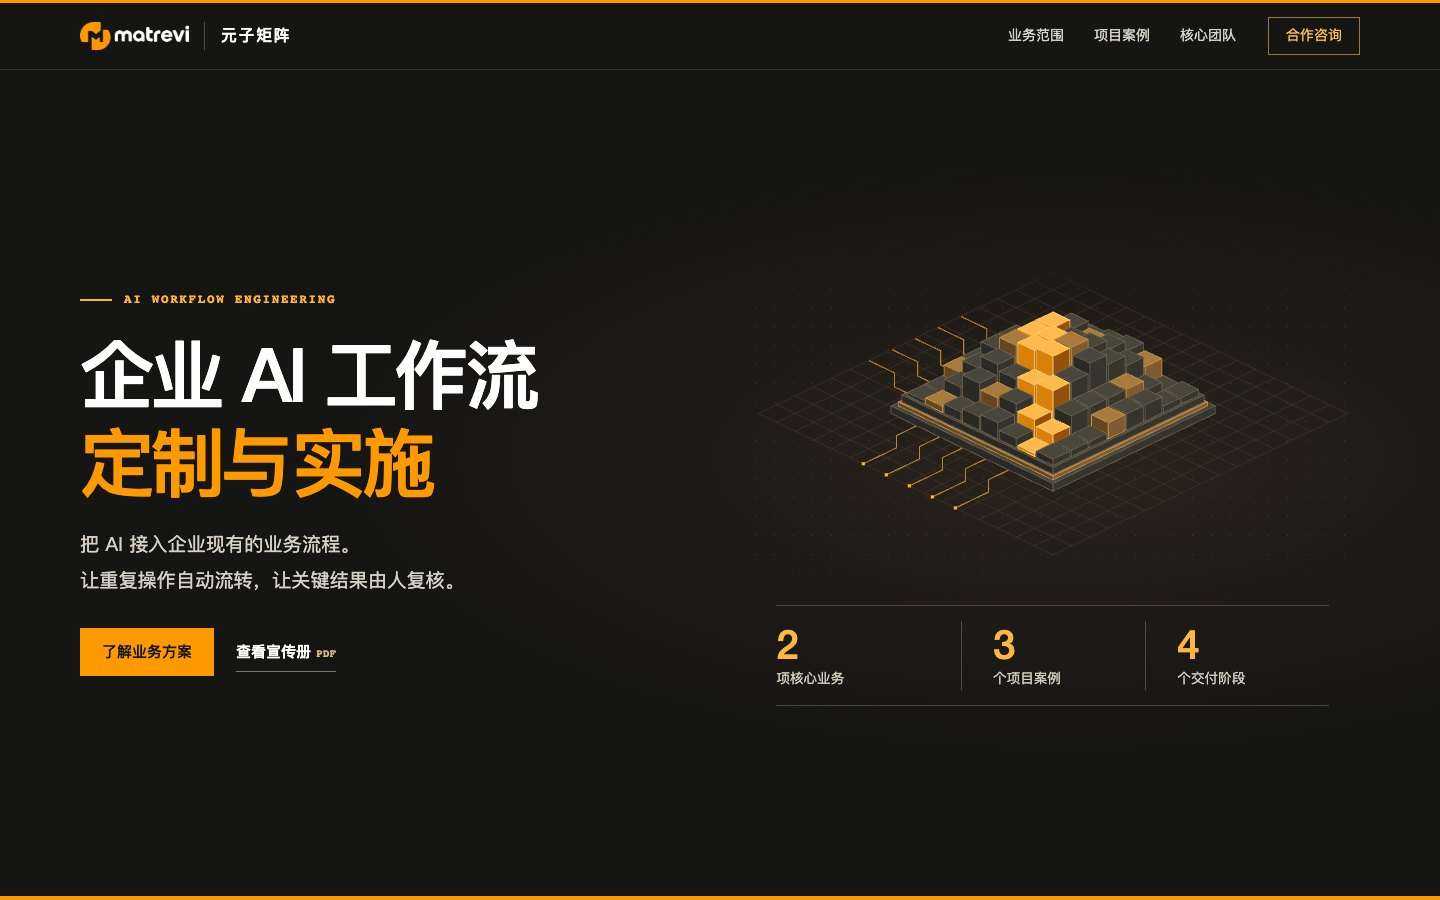
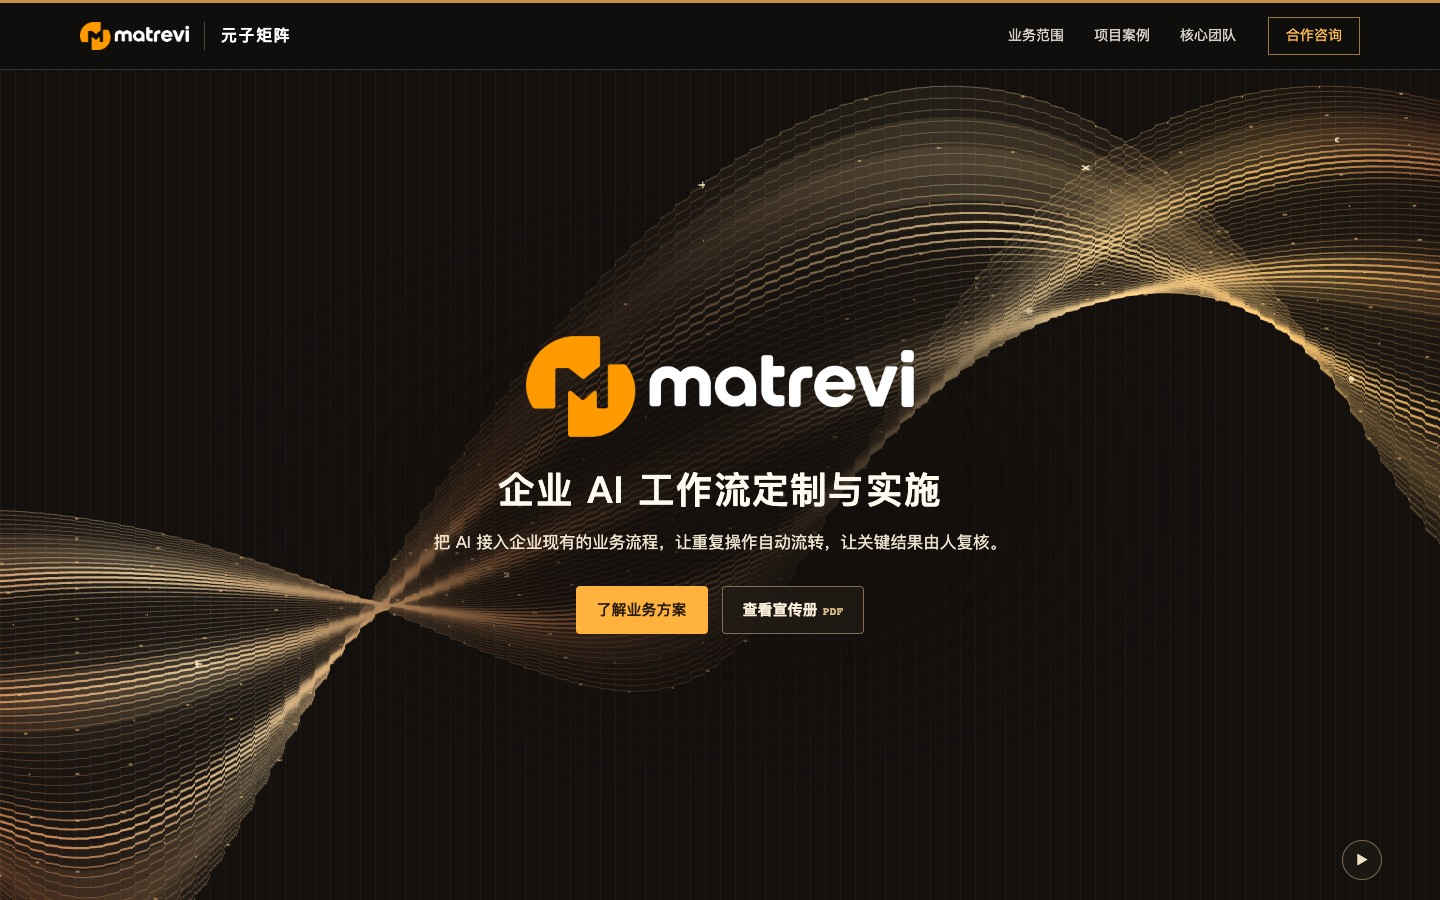
用琥珀色折射矩阵流重绘官网独立首页

diff --git a/site.css b/site.css
@@ -10,15 +10,7 @@ header{height:var(--head);position:sticky;top:0;background:#151514;color:#fff;bo
 .navlinks{gap:30px;font-size:14px;color:#d8d3ca}.navlinks a:hover,.secondary:hover{color:var(--amber)}
 .contact-link{border:1px solid #9c773a;padding:6px 17px;color:#ffbc53;font-size:14px}.contact-link:hover{background:#302719}
 .skip{position:fixed;top:-80px;left:10px;background:white;padding:10px;z-index:10}.skip:focus{top:10px}
-.cover{color:white;background:radial-gradient(ellipse at 74% 47%,#29231a 0,transparent 48%),#151514;overflow:hidden;border-bottom:4px solid var(--amber)}
-.cover-in{display:grid;grid-template-columns:1fr 1fr;align-items:center;gap:4%;min-height:clamp(515px,72vh,760px);padding-block:50px}
-.eyebrow,.kicker,.category{font:650 .79rem/1.5 "SFMono-Regular",Consolas,monospace;letter-spacing:.13em}.eyebrow{display:flex;gap:12px;align-items:center;color:#ffb33b}.eyebrow i{width:32px;height:2px;background:currentColor}
-h1{font-size:clamp(46px,5.18vw,83px);line-height:1.18;letter-spacing:-.055em;margin:22px 0 20px;font-weight:800}h1 em{color:var(--amber);font-style:normal}
-.lead{font-size:clamp(1rem,1.35vw,1.2rem);line-height:1.85;color:#d6d0c6}
-.actions{gap:22px;flex-wrap:wrap;margin-top:30px;font-size:15px;font-weight:650}.primary{background:var(--amber);color:#161513;padding:11px 22px}.primary:hover{background:#ffb536}.secondary{color:white;border-bottom:1px solid #7c7566;padding:7px 0}.secondary small{font:600 .7rem monospace;color:#d4b786}
-.visual{min-width:0}.art{position:relative;background-image:radial-gradient(#72644865 .8px,transparent 1px);background-size:19px 19px;mask-image:linear-gradient(to bottom,transparent,black 12%,black 89%,transparent)}
-canvas{display:block;width:100%;height:auto}.stats{display:grid;grid-template-columns:repeat(3,1fr);border-block:1px solid #4d4537;padding:15px 0;margin:0 5%}
-.stats div{display:flex;flex-direction:column-reverse;padding-left:17%;border-left:1px solid #524a3c}.stats div:first-child{border:0;padding-left:0}.stats dt{color:#d3cbbd;font-size:.85rem}.stats dd{font:500 clamp(1.7rem,2.8vw,2.7rem)/1.15 "Helvetica Neue",Arial,sans-serif;color:#ffb641;letter-spacing:-.06em}
+.kicker,.category{font:650 .79rem/1.5 "SFMono-Regular",Consolas,monospace;letter-spacing:.13em}
 .reading{display:grid;grid-template-columns:190px minmax(0,1fr);gap:clamp(30px,5vw,86px);padding-block:56px 78px}
 .toc{position:sticky;top:calc(var(--head) + 22px);border-top:3px solid var(--ink);padding-top:16px}.toc h2{font-size:16px;margin-bottom:14px}.toc a{display:block;padding:8px 12px;color:#625e56;border-left:2px solid transparent;font-size:15px}.toc a:hover,.toc a[aria-current]{background:#eee8dc;color:var(--ink);border-color:#bd6900}
 article{background:#fff;border:1px solid var(--line);min-width:0}article section{padding:clamp(26px,4vw,62px);border-bottom:1px solid var(--line)}article section:last-child{border:0}
@@ -33,14 +25,51 @@ article h2{font-size:1.18rem;line-height:1.45}article p,article dd{color:#514d47
 #contact{background:#1b1a17;color:white}#contact .kicker{color:#ffb33b}#contact p{color:#d3cdbf}.contact-body{display:flex;justify-content:space-between;align-items:center;gap:15px;margin-top:22px;border-top:1px solid #4f4738;padding-top:20px}.contact-body a{display:block;color:white;text-underline-offset:4px}.contact-body h2{margin-bottom:10px}.contact-body small{font-size:.8rem;color:#e4c99e}.contact-body img{display:block;width:100px}.contact-body figcaption{text-align:center;font-size:13px;color:#dfd7cb}
 footer{background:#151514;color:#d7d3ca;font-size:14px}footer .wrap{display:flex;justify-content:space-between;padding-block:18px}
 @media(max-width:920px){.reading{grid-template-columns:142px minmax(0,1fr);gap:24px}.people,.case{grid-template-columns:1fr}.person{padding-block:10px}.people{gap:4px}.case{gap:14px}}
-@media(max-width:700px){:root{--head:58px}.wrap{width:90%}.bar{gap:12px}.brand{gap:10px}.brand img{width:84px}.brand span{font-size:13px;padding-left:10px}.navlinks{display:none}.contact-link{padding:4px 10px}.cover-in{grid-template-columns:1fr;gap:15px;padding-block:42px 27px;min-height:0}h1{font-size:clamp(43px,9vw,64px);margin:16px 0 12px}.lead{line-height:1.65}.actions{margin-top:18px}.visual{display:grid;grid-template-columns:1.35fr 1fr;align-items:center;gap:8px}.art{margin-left:-5%}.stats{grid-template-columns:1fr;border:0;margin:0;padding:0}.stats div,.stats div:first-child{flex-direction:row-reverse;align-items:baseline;justify-content:flex-end;gap:9px;border:0;border-bottom:1px solid #524a3c;padding:3px 0}.stats dt{font-size:.75rem}.stats dd{font-size:1.45rem;min-width:18px}.reading{display:block;padding-block:24px 30px}.toc{position:static;display:flex;gap:4px;flex-wrap:wrap;border-top:0;padding:0 0 16px}.toc h2{flex-basis:100%;margin:0}.toc a{padding:4px 8px;font-size:14px}.pair,.stages{grid-template-columns:1fr;gap:15px}.terms div{display:block}.terms dt{margin-bottom:4px}article section{padding:24px 18px}.case img{max-height:none}.contact-body{flex-wrap:wrap}.contact-body img{width:85px}}
+@media(max-width:700px){:root{--head:58px}.wrap{width:90%}.bar{gap:12px}.brand{gap:10px}.brand img{width:84px}.brand span{font-size:13px;padding-left:10px}.navlinks{display:none}.contact-link{padding:4px 10px}.reading{display:block;padding-block:24px 30px}.toc{position:static;display:flex;gap:4px;flex-wrap:wrap;border-top:0;padding:0 0 16px}.toc h2{flex-basis:100%;margin:0}.toc a{padding:4px 8px;font-size:14px}.pair,.stages{grid-template-columns:1fr;gap:15px}.terms div{display:block}.terms dt{margin-bottom:4px}article section{padding:24px 18px}.case img{max-height:none}.contact-body{flex-wrap:wrap}.contact-body img{width:85px}}
 @media(prefers-reduced-motion:no-preference){html{scroll-behavior:smooth}}@media print{header,aside,footer,.actions,.skip{display:none}.reading{display:block}.wrap{width:100%}.cover-in{min-height:0}.cover{background:white;color:#161513}.lead,.eyebrow{color:#514d47}article{border:0}article section{break-inside:auto}.case,.person{break-inside:avoid}}
 
-.home { background: #151514; }
-.home .cover-in {
-  min-height: calc(100svh - var(--head) - 4px);
-  align-content: center;
+.home { background: #100e0c; }
+.home header { border-top-color: #cc9148; background: #100e0c; }
+.cover {
+  position: relative;
+  isolation: isolate;
+  overflow: hidden;
+  display: grid;
+  place-items: center;
+  min-height: calc(100svh - var(--head));
+  padding: 66px 5%;
+  color: #fffaf0;
+  background: radial-gradient(ellipse at 85% 22%, #503120, transparent 48%),
+              radial-gradient(ellipse at 12% 86%, #614022, transparent 47%), #120f0e;
 }
+.cover canvas { position: absolute; inset: 0; width: 100%; height: 100%; z-index: -2; }
+.cover::before {
+  content: ""; position: absolute; inset: 0; z-index: -1; pointer-events: none;
+  background: radial-gradient(ellipse at 50% 51%, #120e0bd9 0%, #120e0ba6 19%, transparent 52%);
+}
+.hero-copy { text-align: center; }
+.cover-logo { display: block; width: clamp(200px, 27vw, 420px); height: auto; margin: 0 auto 28px; }
+.cover h1 { margin: 0; font-size: clamp(22px, 2.55vw, 40px); line-height: 1.35; letter-spacing: .035em; font-weight: 650; }
+.lead { margin: 14px 0 0; color: #eee2cf; font-size: clamp(15px, 1.15vw, 18px); line-height: 1.8; }
+.mobile-break { display: none; }
+.actions { justify-content: center; flex-wrap: wrap; gap: 14px; margin-top: 28px; font-size: 15px; font-weight: 600; }
+.actions a { padding: 10px 20px; border: 1px solid transparent; border-radius: 4px; }
+.primary { color: #241807; background: #ffb23e; }
+.primary:hover { background: #ffc469; }
+.actions .secondary { border-color: #806d53; color: #fff2df; background: #211b15d9; }
+.secondary small { font: 600 .72rem monospace; color: #dbbc86; }
+.motion {
+  position: absolute; right: 4%; bottom: 20px; width: 40px; height: 40px; border-radius: 50%;
+  background: #1c1814e6; color: #f0dfc6; border: 1px solid #7f6950; cursor: pointer;
+}
+.motion:focus-visible { outline: 3px solid var(--amber); outline-offset: 3px; }
+@media(max-width:700px) {
+  .cover-logo { margin-bottom: 24px; }
+  .mobile-break { display: inline; }
+  .actions { gap: 10px; }
+  .actions a { padding: 9px 14px; }
+}
+@media print { .motion, .cover canvas { display: none; } }
 .chapter { min-width: 0; }
 .pager {
   display: flex;

diff --git a/matrix.js b/matrix.js
@@ -1,59 +1,140 @@
-// Isometric drawing for the cover. Coordinates are expressed in grid cells.
+// Light threads are rendered into one surface and sampled through vertical glass ribs.
 const canvas = document.getElementById('matrix');
-const ctx = canvas.getContext('2d');
-function project(x, y, h = 0) {
-  return [400 + (x - y) * 24, 200 + (x + y) * 11.5 - h];
-}
-function shape(points, fill, outline, width = 1) {
-  ctx.beginPath();
-  points.forEach(([x, y], index) => index ? ctx.lineTo(x, y) : ctx.moveTo(x, y));
-  if (fill) { ctx.closePath(); ctx.fillStyle = fill; ctx.fill(); }
-  if (outline) { ctx.strokeStyle = outline; ctx.lineWidth = width; ctx.stroke(); }
-}
-function trace(points, color, width) {
-  shape(points.map(point => project(...point)), null, color, width);
-}
-function block(x,y,size,bottom,height,colors) {
-  const corners = [[x,y],[x+size,y],[x+size,y+size],[x,y+size]];
-  const top = corners.map(([a,b]) => project(a,b,height));
-  const base = corners.map(([a,b]) => project(a,b,bottom));
-  shape([top[3],top[2],base[2],base[3]],colors[1],colors[3]);
-  shape([top[2],top[1],base[1],base[2]],colors[2],colors[3]);
-  shape(top,colors[0],colors[3]);
-}
-function drawMatrix() {
-  const scale = Math.min(devicePixelRatio || 1, 3) * canvas.clientWidth / 800;
-  canvas.width = Math.max(1, Math.round(800*scale));
-  canvas.height = Math.max(1, Math.round(450*scale));
-  ctx.setTransform(scale,0,0,scale,0,0);
-  for (let n=-8;n<=8;n++) {
-    trace([[-8,n],[8,n]],'#54463572',1);
-    trace([[n,-8],[n,8]],'#54463572',1);
+const surface = document.createElement('canvas');
+const ink = surface.getContext('2d');
+const glass = canvas.getContext('2d');
+const motion = document.querySelector('.motion');
+const preference = matchMedia('(prefers-reduced-motion: reduce)');
+const lanes = 64;
+const samples = 126;
+let width, height, frame, previous = 0, phase = 0;
+let paused = preference.matches;
+
+function drawField() {
+  const tall = height > width;
+  const extent = Math.min(height, width * .96);
+  ink.fillStyle = '#14100e';
+  ink.fillRect(0, 0, width, height);
+
+  // Each sampled column forms a rotated cross-section of the same folded sheet.
+  const columns = Array.from({length: samples + 1}, (_, i) => {
+    const t = i / samples;
+    const angle = t * 9.5 + .65 * Math.sin(phase * .36) - .28;
+    const x = (t * 1.46 - .23) * width;
+    const y = height * (.76 - .55 * t) + extent * .21 * Math.sin(t * 8.4 - .72 + .26 * Math.sin(phase * .54));
+    return {
+      x, y,
+      dx: extent * .115 * Math.cos(angle),
+      dy: extent * .28 * Math.sin(angle),
+      bend: extent * .115 * Math.cos(angle + .7)
+    };
+  });
+  function point(i, lane) {
+    const c = columns[i];
+    return [c.x + c.dx * lane, c.y + c.dy * lane + c.bend * (1 - lane * lane)];
   }
-  const amber = ['#ffba4d','#d88009','#95500b','#ffc96c'];
-  const slate = ['#49463b','#292a25','#35352d','#6d624d'];
-  const bronze = ['#a77b3e','#624721','#805b31','#c5914b'];
-  for (let lane=0;lane<5;lane++) {
-    const start = -3+lane*1.25;
-    trace([[-8,start],[-6.6,start],[-5.8,start+.8],[-3.6,start+.8]],'#c07d32',1.4);
-    trace([[start,4],[start,5.5],[start+.7,6.2],[start+.7,8]],'#b9863d',1.4);
-    const [x,y] = project(start+.7,8);
-    ctx.fillStyle='#ffb744';ctx.fillRect(x-2,y-2,4,4);
+
+  const light = ink.createLinearGradient(0, height, width, 0);
+  light.addColorStop(0, '#dc824a');
+  light.addColorStop(.17, '#ffe1aa');
+  light.addColorStop(.38, '#d4844c');
+  light.addColorStop(.52, '#967050');
+  light.addColorStop(.72, '#ffdda0');
+  light.addColorStop(.88, '#ffc56b');
+  light.addColorStop(1, '#ad613c');
+  // Lay a continuous amber film beneath the finer matrix lines.
+  // Sampling both edges of each band keeps the highlights attached to the fold.
+  const bands = 24;
+  for (let band = 0; band < bands; band++) {
+    const edge = band / bands * 2 - 1;
+    const highlight = (.5 + .5 * Math.cos(edge * 8.5 + phase * .18)) ** 3;
+    ink.fillStyle = light;
+    ink.globalAlpha = .035 + .21 * highlight;
+    ink.beginPath();
+    ink.moveTo(...point(0, edge));
+    for (let i = 1; i <= samples; i++) ink.lineTo(...point(i, edge));
+    for (let i = samples; i >= 0; i--) ink.lineTo(...point(i, edge + 2 / bands));
+    ink.closePath();
+    ink.fill();
   }
-  block(-4.4,-4.4,8.8,0,10,slate);
-  block(-4.2,-4.2,8.4,10,15,bronze);
-  block(-4.1,-4.1,8.2,15,24,slate);
-  // The central array rises in terraces, with illuminated cells following the diagonal.
-  for(let sum=0;sum<=14;sum++){
-    for(let i=0;i<8;i++){
-      const j=sum-i;
-      if(j<0 || j>7) continue;
-      const ridge=Math.max(0,1-Math.hypot(i-3.4,j-3.1)/4.4);
-      const height=28+Math.round(ridge*6)*13+((i*7+j*3)%3)*4;
-      const hot=(i===j || i===j-1) && i>0 && i<7;
-      const colors=hot ? amber : ((i+2*j)%5===0?bronze:slate);
-      block(i-3.93,j-3.93,.91,24,height,colors);
+  ink.strokeStyle = light;
+  for (let j = 0; j <= lanes; j++) {
+    const lane = j / lanes * 2 - 1;
+    const sheen = (.5 + .5 * Math.cos(lane * 11 - phase * .35)) ** 3;
+    ink.globalAlpha = .27 + .55 * sheen;
+    ink.lineWidth = (.9 + 1.4 * sheen) * Math.max(.7, width / 1450);
+    ink.beginPath();
+    for (let i = 0; i <= samples; i++) {
+      const [x, y] = point(i, lane);
+      if (i === 0) ink.moveTo(x,y);
+      else ink.lineTo(x,y);
+    }
+    ink.stroke();
+  }
+
+  // Rows of travelling samples tighten where the sheet turns edge-on.
+  ink.globalAlpha = 1;
+  const symbols = ['+', '×', '⊕'];
+  ink.font = (tall ? 10 : 13) + 'px monospace';
+  for (let row = 0; row < 36; row++) {
+    const pos = ((row / 36 + phase * .019) % 1) * samples;
+    const left = Math.floor(pos);
+    const mix = pos - left;
+    for (let j = 0; j <= 12; j++) {
+      const lane = j / 6 - 1;
+      const a = point(left, lane), b = point(left + 1, lane);
+      const x = a[0] + (b[0] - a[0]) * mix, y = a[1] + (b[1] - a[1]) * mix;
+      const operator = (row + j * 5) % 39 === 0;
+      ink.fillStyle = operator ? '#fff0c6' : '#ffc57eb3';
+      if (operator) ink.fillText(symbols[(row + j) % symbols.length], x, y);
+      else ink.fillRect(x,y,tall ? 1.2 : 1.8,tall ? 1.2 : 1.8);
     }
   }
+
+  const pitch = tall ? 9 : 15;
+  const scale = surface.width / width;
+  for (let x = 0; x < width; x += pitch) {
+    // Different magnification on the two faces produces a refracted seam.
+    const sample = Math.min(x + 2, width - 1);
+    glass.drawImage(surface, sample * scale, 0, pitch * .48 * scale, surface.height, x, 0, pitch * .72, height);
+    glass.drawImage(surface, Math.min(x + pitch * .50,width-1) * scale, 0, pitch * .50 * scale, surface.height, x + pitch * .72, 0, pitch * .28 + .4, height);
+    glass.fillStyle = 'rgba(255,219,174,.045)';
+    glass.fillRect(x,0,1,height);
+  }
 }
-if (ctx) { new ResizeObserver(drawMatrix).observe(canvas.parentElement); }
+
+function tick(now) {
+  if (now - previous >= 33) {
+    if (previous) phase += Math.min(now - previous,80) / 1000;
+    previous = now;
+    drawField();
+  }
+  frame = requestAnimationFrame(tick);
+}
+function updatePlayback() {
+  cancelAnimationFrame(frame);
+  previous = 0;
+  const label = paused ? '播放背景动效' : '暂停背景动效';
+  motion.title = label;
+  motion.setAttribute('aria-label', label);
+  motion.firstElementChild.textContent = paused ? '▶' : 'Ⅱ';
+  if (!paused && !document.hidden) frame = requestAnimationFrame(tick);
+}
+function resize() {
+  width = canvas.clientWidth; height = canvas.clientHeight;
+  if (!width || !height) return;
+  const density = Math.min(devicePixelRatio, 1.5, 1800 / width);
+  surface.width = canvas.width = Math.round(width * density);
+  surface.height = canvas.height = Math.round(height * density);
+  for (const context of [ink, glass]) context.setTransform(canvas.width/width, 0, 0, canvas.height/height, 0, 0);
+  drawField();
+}
+if (ink && glass) {
+  resize();
+  new ResizeObserver(resize).observe(canvas);
+  motion.hidden = false;
+  motion.addEventListener('click', () => { paused = !paused; updatePlayback(); });
+  preference.addEventListener('change', () => { paused = preference.matches; updatePlayback(); });
+  document.addEventListener('visibilitychange', updatePlayback);
+  updatePlayback();
+}

diff --git a/index.html b/index.html
@@ -15,16 +15,18 @@
   <a class="contact-link" href="contact.html">合作咨询</a>
 </nav></header>
 <main>
-<section class="cover" aria-labelledby="headline"><div class="wrap cover-in">
+<section class="cover" aria-labelledby="headline">
+  <canvas id="matrix" aria-hidden="true"></canvas>
   <div class="hero-copy">
-    <p class="eyebrow"><i></i> AI WORKFLOW ENGINEERING</p>
-    <h1 id="headline">企业 AI 工作流<br><em>定制与实施</em></h1>
-    <p class="lead">把 AI 接入企业现有的业务流程。<br>让重复操作自动流转，让关键结果由人复核。</p>
-    <div class="actions"><a class="primary" rel="next" href="services.html">了解业务方案</a><a class="secondary" href="https://github.com/matrevi/matrevi-brochure/blob/main/main.pdf">查看宣传册 <small>PDF</small></a></div>
+    <img class="cover-logo" src="assets/wordmark-light.png" alt="matrevi 元子矩阵">
+    <h1 id="headline">企业 AI 工作流定制与实施</h1>
+    <p class="lead">把 AI 接入企业现有的业务流程，<br class="mobile-break">让重复操作自动流转，让关键结果由人复核。</p>
+    <div class="actions">
+      <a class="primary" rel="next" href="services.html">了解业务方案</a>
+      <a class="secondary" href="https://github.com/matrevi/matrevi-brochure/blob/main/main.pdf">查看宣传册 <small>PDF</small></a>
+    </div>
   </div>
-  <div class="visual"><div class="art"><canvas id="matrix" width="800" height="450" aria-hidden="true"></canvas></div>
-    <dl class="stats"><div><dt>项核心业务</dt><dd>2</dd></div><div><dt>个项目案例</dt><dd>3</dd></div><div><dt>个交付阶段</dt><dd>4</dd></div></dl>
-  </div>
-</div></section>
+  <button class="motion" type="button" aria-label="暂停背景动效" title="暂停背景动效" hidden><span aria-hidden="true">Ⅱ</span></button>
+</section>
 </main>
 </body></html>
